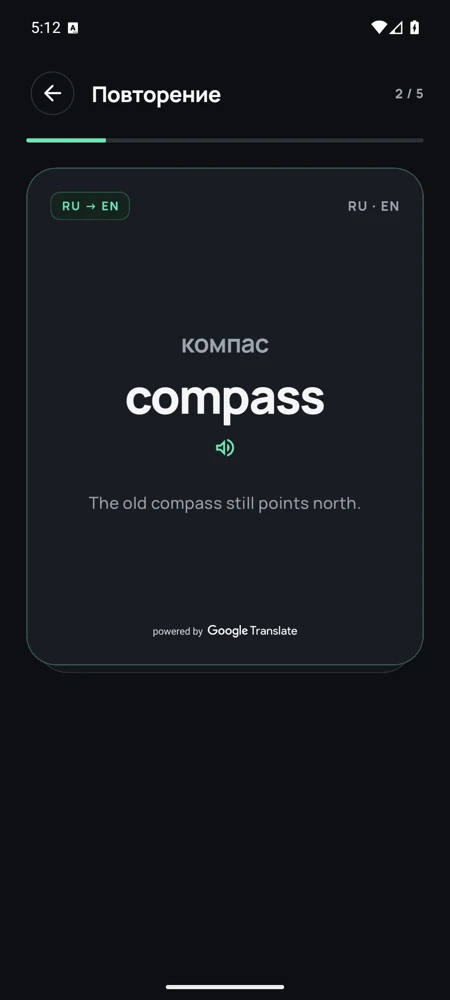
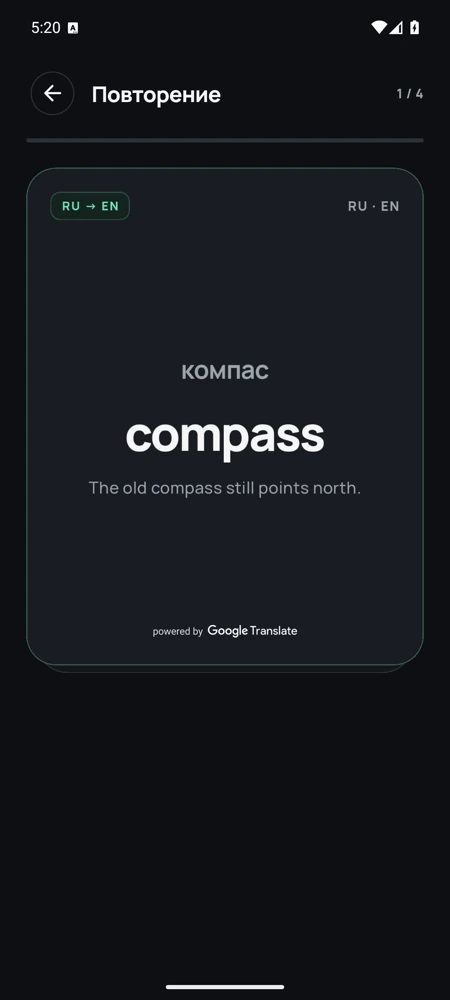
Pronounce review terms when tapped

Changed region(s): [[0.1867, 0.341, 0.7778, 0.527], [0.0622, 0.124, 0.2178, 0.155], [0.0933, 0.0, 0.1244, 0.031]]

diff --git a/lib/src/review_screen.dart b/lib/src/review_screen.dart
@@ -61,7 +61,7 @@ class _ReviewScreenState extends State<ReviewScreen>
 
   Future<void> _speak(String word) async {
     if (_speaking || _submitting || _flip.isAnimating) return;
-    setState(() => _speaking = true);
+    _speaking = true;
     try {
       await widget.onSpeak(word).timeout(const Duration(seconds: 15));
     } on PlatformException catch (error) {
@@ -78,7 +78,7 @@ class _ReviewScreenState extends State<ReviewScreen>
         notifyUser(context, 'Озвучка не запустилась. Попробуйте ещё раз.');
       }
     } finally {
-      if (mounted) setState(() => _speaking = false);
+      _speaking = false;
     }
   }
 
@@ -318,11 +318,7 @@ class _ReviewScreenState extends State<ReviewScreen>
                             child: _CardFace(
                               card: card,
                               back: back,
-                              speaking: _speaking,
-                              onSpeak:
-                                  _speaking || _submitting || _flip.isAnimating
-                                  ? null
-                                  : () => _speak(card.entry.english),
+                              onSpeak: () => _speak(card.entry.english),
                               highlight: (offset / width).abs().clamp(0.0, .5),
                               positive: offset > 0,
                             ),
@@ -358,15 +354,13 @@ class _CardFace extends StatelessWidget {
   const _CardFace({
     required this.card,
     required this.back,
-    required this.speaking,
     required this.onSpeak,
     required this.highlight,
     required this.positive,
   });
   final ReviewCard card;
   final bool back;
-  final bool speaking;
-  final VoidCallback? onSpeak;
+  final VoidCallback onSpeak;
   final double highlight;
   final bool positive;
 
@@ -432,18 +426,6 @@ class _CardFace extends StatelessWidget {
                       content,
                       heading.copyWith(fontSize: content.length > 28 ? 31 : 44),
                     ),
-                    IconButton(
-                      tooltip: 'Озвучить английское слово',
-                      onPressed: onSpeak,
-                      color: mint,
-                      disabledColor: muted,
-                      icon: Icon(
-                        speaking
-                            ? Icons.volume_up_rounded
-                            : Icons.volume_up_outlined,
-                        size: 22,
-                      ),
-                    ),
                     if (back && card.entry.context.isNotEmpty) ...[
                       const SizedBox(height: 15),
                       Text(
@@ -468,17 +450,40 @@ class _CardFace extends StatelessWidget {
 
   Widget _term(BuildContext context, String term, TextStyle style) => Semantics(
     label: term,
+    hint: 'Озвучить английское слово',
+    button: true,
+    onTap: onSpeak,
     excludeSemantics: true,
-    child: Wrap(
-      alignment: WrapAlignment.center,
-      spacing: MediaQuery.textScalerOf(context).scale(style.fontSize!) * .2,
-      children: [
-        for (final word in term.split(_wordSeparator))
-          FittedBox(
-            fit: BoxFit.scaleDown,
-            child: Text(word, softWrap: false, maxLines: 1, style: style),
+    child: Material(
+      type: MaterialType.transparency,
+      child: InkWell(
+        onTap: onSpeak,
+        borderRadius: BorderRadius.circular(10),
+        child: ConstrainedBox(
+          constraints: const BoxConstraints(minWidth: 48, minHeight: 48),
+          child: Center(
+            widthFactor: 1,
+            heightFactor: 1,
+            child: Wrap(
+              alignment: WrapAlignment.center,
+              spacing:
+                  MediaQuery.textScalerOf(context).scale(style.fontSize!) * .2,
+              children: [
+                for (final word in term.split(_wordSeparator))
+                  FittedBox(
+                    fit: BoxFit.scaleDown,
+                    child: Text(
+                      word,
+                      softWrap: false,
+                      maxLines: 1,
+                      style: style,
+                    ),
+                  ),
+              ],
+            ),
           ),
-      ],
+        ),
+      ),
     ),
   );
 }

diff --git a/test/review_test.dart b/test/review_test.dart
@@ -20,7 +20,8 @@ void main() {
     );
     final ratings = <(Direction, Grade)>[];
     final spoken = <String>[];
-    final speakButton = find.byTooltip('Озвучить английское слово');
+    final englishTerm = find.text('curiosity');
+    final russianTerm = find.text('любопытство');
     await tester.pumpWidget(
       MaterialApp(
         theme: appTheme(),
@@ -34,19 +35,21 @@ void main() {
     );
     expect(find.text('curiosity'), findsOneWidget);
     expect(find.text('любопытство'), findsNothing);
-    await tester.tap(speakButton);
+    expect(find.byIcon(Icons.volume_up_outlined), findsNothing);
+    expect(find.byIcon(Icons.volume_up_rounded), findsNothing);
+    await tester.tap(englishTerm);
     await tester.pumpAndSettle();
     expect(spoken, ['curiosity']);
     expect(find.text('любопытство'), findsNothing);
     await tester.fling(find.text('curiosity'), const Offset(280, 0), 650);
     await tester.pumpAndSettle();
     expect(ratings, isEmpty);
-    await tester.tap(find.text('Показать перевод'));
+    await tester.tapAt(tester.getCenter(englishTerm) + const Offset(0, -105));
     await tester.pumpAndSettle();
     expect(find.text('любопытство'), findsOneWidget);
     expect(find.text('curiosity'), findsOneWidget);
     expect(find.text(entry.context), findsOneWidget);
-    await tester.tap(speakButton);
+    await tester.tap(russianTerm);
     await tester.pumpAndSettle();
     expect(spoken, hasLength(2));
     expect(find.byType(FilledButton), findsNothing);
@@ -58,7 +61,7 @@ void main() {
     expect(find.text('RU → EN'), findsOneWidget);
     expect(find.text('любопытство'), findsOneWidget);
     expect(find.text('curiosity'), findsNothing);
-    await tester.tap(speakButton);
+    await tester.tap(russianTerm);
     await tester.pumpAndSettle();
     expect(spoken, hasLength(3));
     expect(find.text('curiosity'), findsNothing);
@@ -66,7 +69,7 @@ void main() {
     await tester.pumpAndSettle();
     expect(find.text('любопытство'), findsOneWidget);
     expect(find.text('curiosity'), findsOneWidget);
-    await tester.tap(speakButton);
+    await tester.tap(englishTerm);
     await tester.pumpAndSettle();
     expect(spoken, List.filled(4, 'curiosity'));
     await tester.fling(find.text('curiosity'), const Offset(-280, 0), 950);
